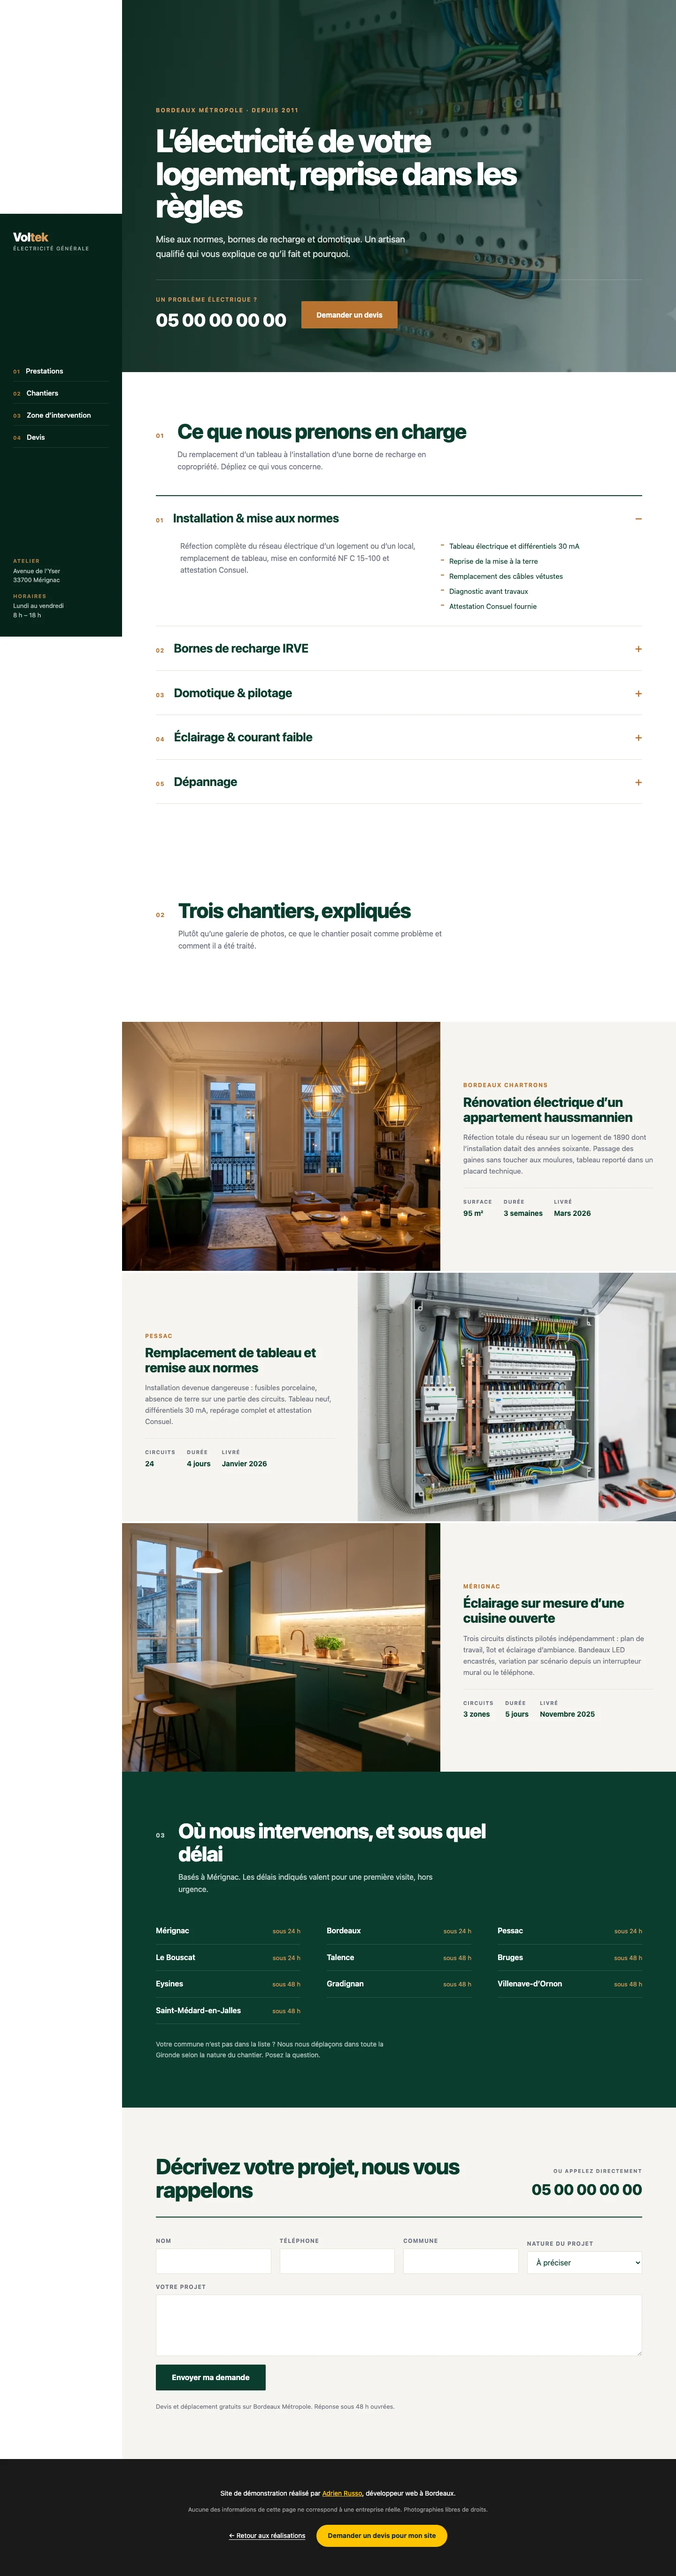
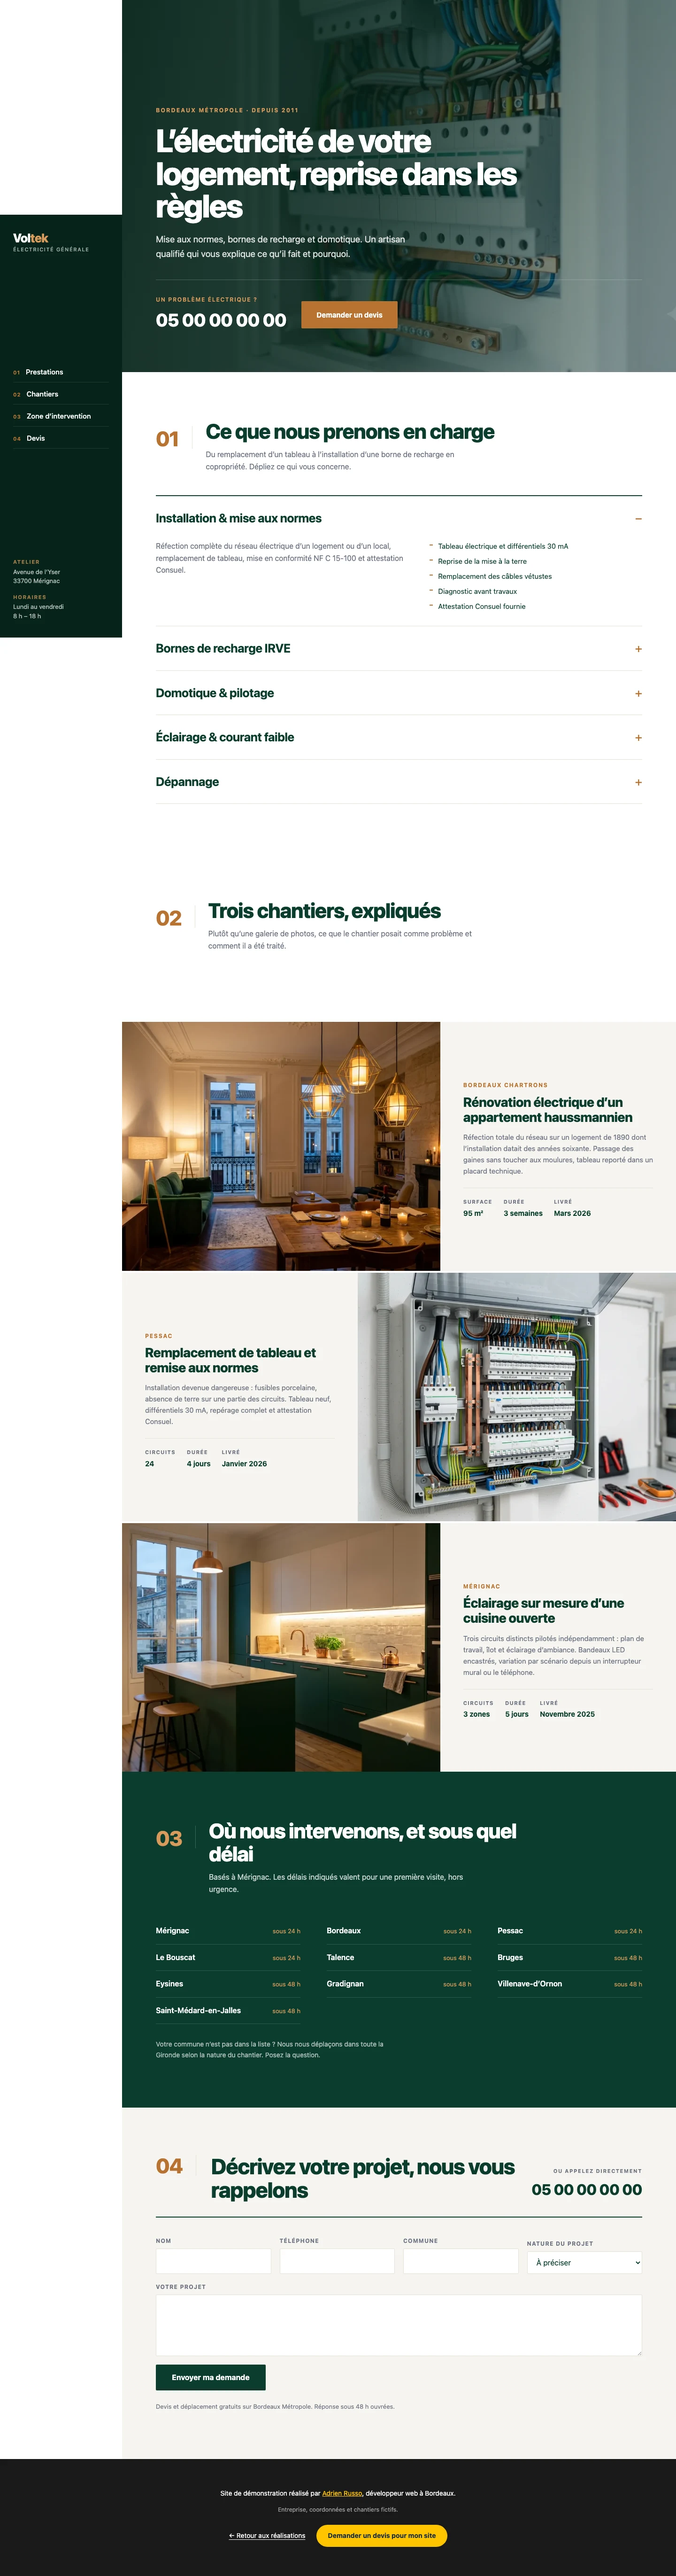
fix: clarifie la numérotation de la démo électricien
Trois compteurs se chevauchaient sur la page : le rail numérotait ses
quatre entrées 01–04, les titres de section 01–03, et l'accordéon
renumérotait 01–05 en interne. « 01 » désignait donc trois choses
différentes, et le rail annonçait 04 pour une section qui affichait 03.

Le numéro de section devient l'unique repère :

- rail et titres lisent la même liste `menu`, via une fonction qui dérive
  le numéro de l'ancre — ils ne peuvent plus se contredire
- la section contact reçoit son 04, qui manquait
- l'accordéon perd son compteur : ces cinq prestations n'ont pas d'ordre,
  et le « + » suffit à signaler qu'on peut déplier

Le numéro passe de 13 px à ~40 px avec un filet de séparation, puisqu'il
porte désormais seul le repérage. Les numéros sont aria-hidden : ils sont
décoratifs, et le titre se suffit à lui-même à la lecture vocale.

diff --git a/src/styles/demos/electricien.css b/src/styles/demos/electricien.css
@@ -286,13 +286,23 @@
   margin-bottom: 48px;
 }
 
-/* Le numéro de section reprend la numérotation du rail. */
+/* Le numéro reprend celui du rail, et c'est désormais le seul compteur de
+   la page : il doit se lire franchement, avec le filet qui le rattache
+   visuellement au titre. */
 .dm-elec .tete .no {
-  font-size: 13px;
-  font-weight: 700;
-  letter-spacing: 0.1em;
+  font-size: clamp(30px, 3.2vw, 44px);
+  font-weight: 800;
+  line-height: 1;
+  letter-spacing: -0.03em;
   color: var(--cuivre);
-  padding-top: 10px;
+  padding-top: 4px;
+  padding-right: 28px;
+  border-right: 1px solid var(--gris-clair);
+}
+
+.dm-elec .fond-vert .tete .no {
+  color: var(--cuivre-clair);
+  border-right-color: rgb(255 255 255 / 0.22);
 }
 
 .dm-elec .tete h2 {
@@ -351,16 +361,8 @@
   color: var(--vert-clair);
 }
 
-.dm-elec .accordeon .rang {
-  font-size: 12px;
-  font-weight: 700;
-  letter-spacing: 0.1em;
-  color: var(--cuivre);
-  flex: none;
-}
-
 .dm-elec .accordeon .contenu {
-  padding: 0 0 30px 52px;
+  padding: 0 0 30px;
   display: grid;
   grid-template-columns: 1.2fr 1fr;
   gap: 40px;
@@ -525,14 +527,27 @@
   background: var(--creme);
 }
 
+/* Même grille numéro + titre que les autres sections, avec le téléphone
+   en troisième colonne. */
 .dm-elec .contact-tete {
   display: grid;
-  grid-template-columns: 1fr auto;
+  grid-template-columns: auto 1fr auto;
   gap: 32px;
   align-items: end;
   padding-bottom: 32px;
   border-bottom: 2px solid var(--vert);
   margin-bottom: 40px;
+}
+
+.dm-elec .contact-tete .no {
+  font-size: clamp(30px, 3.2vw, 44px);
+  font-weight: 800;
+  line-height: 1;
+  letter-spacing: -0.03em;
+  color: var(--cuivre);
+  padding-right: 28px;
+  border-right: 1px solid var(--gris-clair);
+  align-self: start;
 }
 
 .dm-elec .contact-tete h2 {
@@ -646,8 +661,13 @@
   }
 
   .dm-elec .contact-tete {
-    grid-template-columns: 1fr;
+    grid-template-columns: auto 1fr;
     align-items: start;
+  }
+
+  /* Le téléphone passe sous le titre, aligné avec lui. */
+  .dm-elec .contact-tete .contact-tel {
+    grid-column: 2;
   }
 
   .dm-elec .contact-tel {
@@ -700,9 +720,5 @@
 
   .dm-elec .hero {
     min-height: 74vh;
-  }
-
-  .dm-elec .accordeon .contenu {
-    padding-left: 0;
   }
 }
